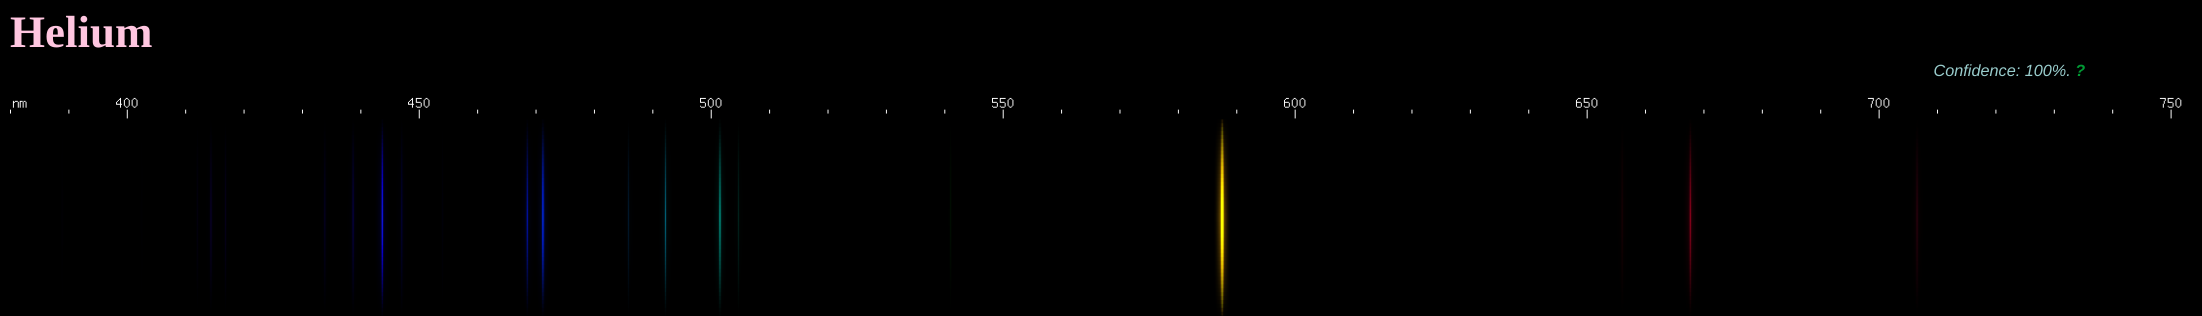
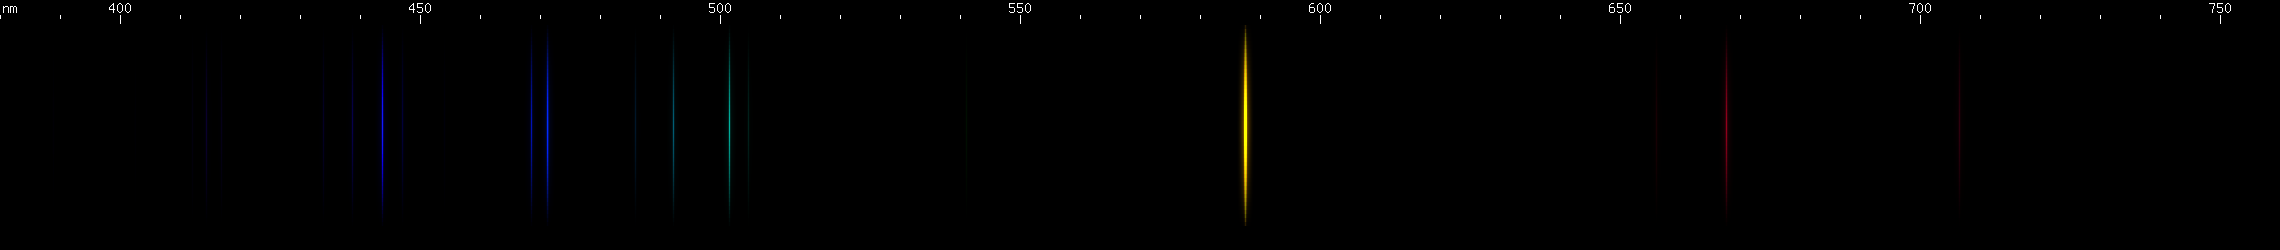
use nicer images from umop.net for spectra

diff --git a/gas_spectra.html b/gas_spectra.html
@@ -23,19 +23,31 @@
 </head>
 <body >
     <div id="apps" class="container-fluid text-center">
+    	<p style="color:black;font-size:150%;text-align:center;"> Hydrogen</p>
        <p><img src="images/H_I.png" alt="Hydrogen I Spectrum"></p>
+    	<p style="color:black;font-size:150%;text-align:center;"> Helium (He)</p>
        <p><img src="images/He_I.png" alt="Helium I Spectrum"></p>
+    	<p style="color:black;font-size:150%;text-align:center;"> Nitrogen (N)</p>
        <p><img src="images/N_I.png" alt="Nitrogen I Spectrum"></p>
+    	<p style="color:black;font-size:150%;text-align:center;"> Oxygen (O)</p>
        <p><img src="images/O_I.png" alt="Oxygen I Spectrum"></p>
+    	<p style="color:black;font-size:150%;text-align:center;"> Fluorine (F)</p>
        <p><img src="images/F_I.png" alt="Fluorine I Spectrum"></p>
+    	<p style="color:black;font-size:150%;text-align:center;"> Neon (Ne)</p>
        <p><img src="images/Ne_I.png" alt="Neon I Spectrum"></p>
+    	<p style="color:black;font-size:150%;text-align:center;"> Chlorine (Cl)</p>
        <p><img src="images/Cl_I.png" alt="Chlorine I Spectrum"></p>
+    	<p style="color:black;font-size:150%;text-align:center;"> Argon (Ar)</p>
        <p><img src="images/Ar_I.png" alt="Argon I Spectrum"></p>
+    	<p style="color:black;font-size:150%;text-align:center;"> Mercury (Hg)</p>
        <p><img src="images/Hg_I.png" alt="Mercury I Spectrum"></p>
+    	<p style="color:black;font-size:150%;text-align:center;"> Krypton (Kr)</p>
        <p><img src="images/Kr_I.png" alt="Krypton I Spectrum"></p>
+    	<p style="color:black;font-size:150%;text-align:center;"> Xenon (Xe)</p>
        <p><img src="images/Xe_I.png" alt="Xenon I Spectrum"></p>
+    	<p style="color:black;font-size:150%;text-align:center;"> Radon (Rn)</p>
        <p><img src="images/Rn_I.png" alt="Radon I Spectrum"></p>
-    	<p><a href="http://umop.net/spectra/spectrum.php"> Sources </a></p>
+    	<p style="text-align:center;"><a href="http://umop.net/spectra/spectrum.php"> Sources </a></p>
 
     </div>
 
